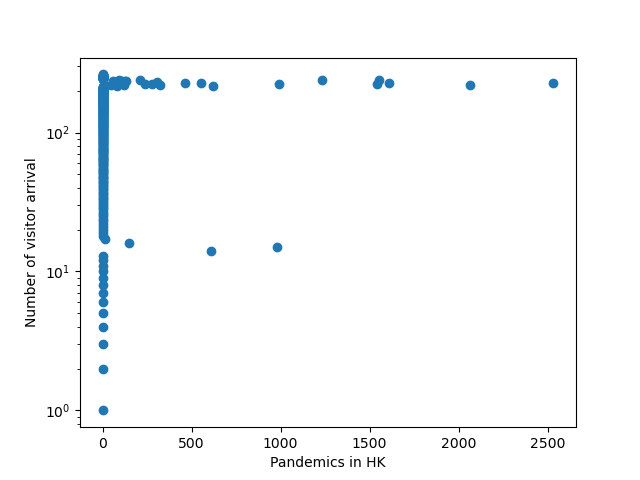
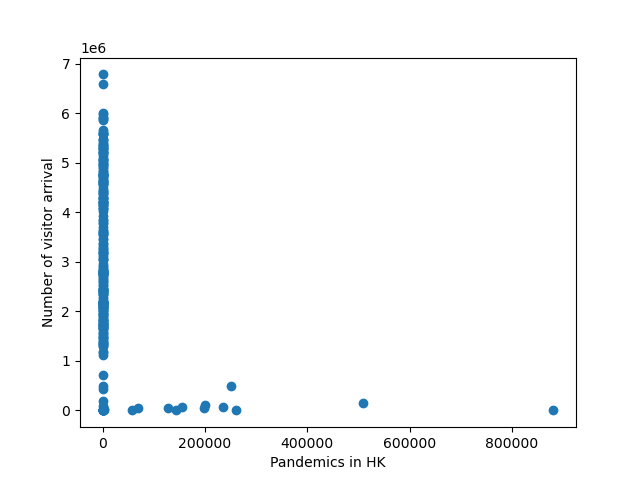
created a dataframe with the same time unit

diff --git a/dataProcessing.py b/dataProcessing.py
@@ -1,4 +1,4 @@
-# this file handle the datasets by creating the dataframe and output the correlation photo
+# this file handle the datasets by creating the dataframe and output the correlation figure
 
 # Import python libraries
 import numpy as np
@@ -15,7 +15,12 @@ CPIdata = pd.to_numeric(CPIdata)
 
 # GDP
 GDPfile = pd.read_csv('databases/HKGDP.csv')
-GDPdata = GDPfile.iloc[4, 181:269]
+GDPdata_seasonal = GDPfile.iloc[4, 181:269]
+GDPdata_seasonal = GDPfile.iloc[4, 181:269].values.reshape(-1, 1)
+
+
+# GDPdata_seasonal = GDPdata_seasonal.values.reshape(-1,)
+# print(GDPdata_seasonal.shape)
 
 # pandemic_diseases_HK(SARS and COVID-19)
 pandemicFile = pd.read_csv('databases/pandemics_in_HK.csv')
@@ -28,9 +33,48 @@ hotelData = hotelFile.iloc[0:264,1]
 # Number of visitor arrival
 visitorFile = pd.read_csv('databases/number_of_visitor_arrival.csv')
 visitorData = visitorFile.iloc[0:265,1]
-# visitorData = pd.to_numeric(visitorData)
 
-# check correlations between different datasets and the vistor arrival 
+# Convert the monthly datasets to seasonal data
+index = pd.date_range('2002-01-01', periods=264, freq='M')
+
+CPIdata.index = index
+pandemicData.index = index
+hotelData.index = index
+visitorData.index = index
+
+CPIdata_seasonal = CPIdata.resample('Q').mean()
+pandemicData_seasonal = pandemicData.resample('Q').mean()
+hotelData_seasonal = hotelData.resample('Q').mean()
+visitorData_seasonal = visitorData.resample('Q').mean()
+
+indexGDP = pd.date_range('2002-01-01', periods=88, freq='Q')
+GDPdata_seasonal = pd.DataFrame(GDPdata_seasonal, columns=['GDP'])
+GDPdata_seasonal = GDPdata_seasonal.set_index(indexGDP)
+
+combined_data = pd.concat([CPIdata_seasonal, pandemicData_seasonal, hotelData_seasonal, visitorData_seasonal, GDPdata_seasonal], axis=1)
+combined_data.to_csv('dataFrame2.csv', index=False)
+
+def check_dataset_shape():
+    print(CPIdata.shape)
+    print(GDPdata_seasonal.shape)
+    print(pandemicData.shape)
+    print(hotelData.shape)
+    print(visitorData.shape)
+
+    print("\n",CPIdata_seasonal.shape)
+    print(pandemicData_seasonal.shape)
+    print(hotelData_seasonal.shape)
+    print(visitorData_seasonal.shape)
+    print(GDPdata_seasonal.shape)
+
+    print("\n",CPIdata_seasonal)
+    print(pandemicData_seasonal)
+    print(hotelData_seasonal)
+    print(visitorData_seasonal)
+    print(GDPdata_seasonal)
+
+
+# check correlations between different datasets and the visitor arrival 
 def correlation_CPI():
     plt.scatter(CPIdata, visitorData)
     plt.xlabel("CPI")
@@ -42,8 +86,8 @@ def correlation_pandemic():
     plt.scatter(pandemicData, visitorData)
     plt.xlabel("Pandemics in HK")
     plt.ylabel("Number of visitor arrival")
-    plt.yscale('log') 
     plt.show()
+
 
 def correlation_hotel():
     plt.scatter(hotelData, visitorData)
@@ -52,32 +96,6 @@ def correlation_hotel():
     plt.yscale('log') 
     plt.show()
 
-# Convert the monthly datasets to seasonal data
-# Convert the index of the datasets to a DatetimeIndex
-CPIdata.index = pd.to_datetime(CPIdata.index)
-pandemicData.index = pd.to_datetime(pandemicData.index)
-hotelData.index = pd.to_datetime(hotelData.index)
-visitorData.index = pd.to_datetime(visitorData.index)
 
-CPIdata_seasonal = CPIdata.resample('Q').mean()
-pandemicData_seasonal = pandemicData.resample('Q').mean()
-hotelData_seasonal = hotelData.resample('Q').mean()
-visitorData_seasonal = visitorData.resample('Q').mean()
-
-print(CPIdata_seasonal)
-print(pandemicData_seasonal)
-print(hotelData_seasonal)
-print(visitorData_seasonal)
-
-print("\n",CPIdata_seasonal.shape)
-
-
-# Check the size of the extracted columns
-def size_extracted_columns():
-    print(CPIdata.shape)
-    print(GDPdata.shape)
-    print(pandemicData.shape)
-    print(hotelData.shape)
-    print(visitorData.shape)
 
 # pd.set_option('display.max_columns', None)
